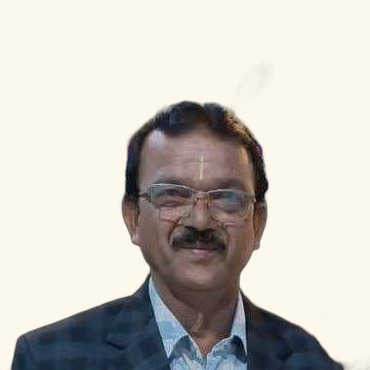
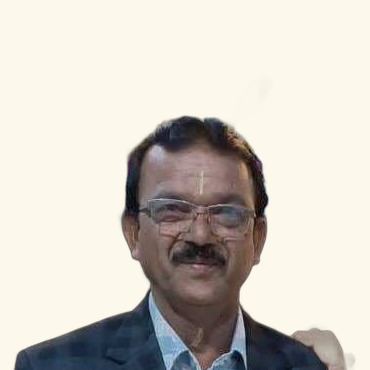
Widen About page, add 25-years content, reframe owner photo
- Widened container to max-w-5xl so the page doesn't look sparse on
  large screens, and added two more real lines about 25 years of
  service and being trusted by local families in Betul (dropped the
  icon highlights strip, it didn't fit the page well).
- Re-cropped the owner photo with better headroom so the face isn't
  sitting low in the frame, and fixed a stray background-removal
  artifact from the previous crop.

diff --git a/frontend/src/pages/About.jsx b/frontend/src/pages/About.jsx
@@ -3,15 +3,15 @@ import anilPhoto from '../assets/photos/anil-dhote.jpg'
 
 export default function About() {
   return (
-    <div className="max-w-3xl mx-auto px-4 py-16 text-left">
+    <div className="max-w-5xl mx-auto px-4 py-16 text-left">
       <h1 className="font-display text-3xl font-bold text-maroon mb-8 text-center">About Us</h1>
 
-      <div className="flex flex-col sm:flex-row items-center sm:items-start gap-6">
+      <div className="flex flex-col sm:flex-row items-center sm:items-start gap-10">
         <div className="text-center shrink-0">
           <img
             src={anilPhoto}
             alt="Anil Kumar Dhote"
-            className="w-56 h-56 sm:w-64 sm:h-64 rounded-lg object-cover shadow-md border-4 border-gold"
+            className="w-64 h-64 sm:w-72 sm:h-72 rounded-lg object-cover shadow-md border-4 border-gold"
           />
           <p className="font-display text-lg font-semibold text-maroon mt-2">Anil Kumar Dhote</p>
           <p className="text-sm text-neutral-500">Owner</p>
@@ -21,6 +21,16 @@ export default function About() {
             {company.name} is run by {company.owners.join(' and ')}, based in Betul. We provide
             tent, decoration, sound, lighting and generator services for weddings, birthdays,
             jagran, meetings and all kinds of functions.
+          </p>
+          <p className="text-neutral-700">
+            We have been giving these services for the last 25 years. In this time we have
+            worked on weddings, birthdays, jagran and many other functions across Betul and
+            nearby areas.
+          </p>
+          <p className="text-neutral-700">
+            Over the years, many families in Betul have trusted us for their events. We know
+            what it takes to make an event look good and run smoothly, from the first
+            decoration piece to the last light.
           </p>
           <p className="text-neutral-700">
             We take care of the gate, passage, stage and full hall decoration, along with DJ sound
